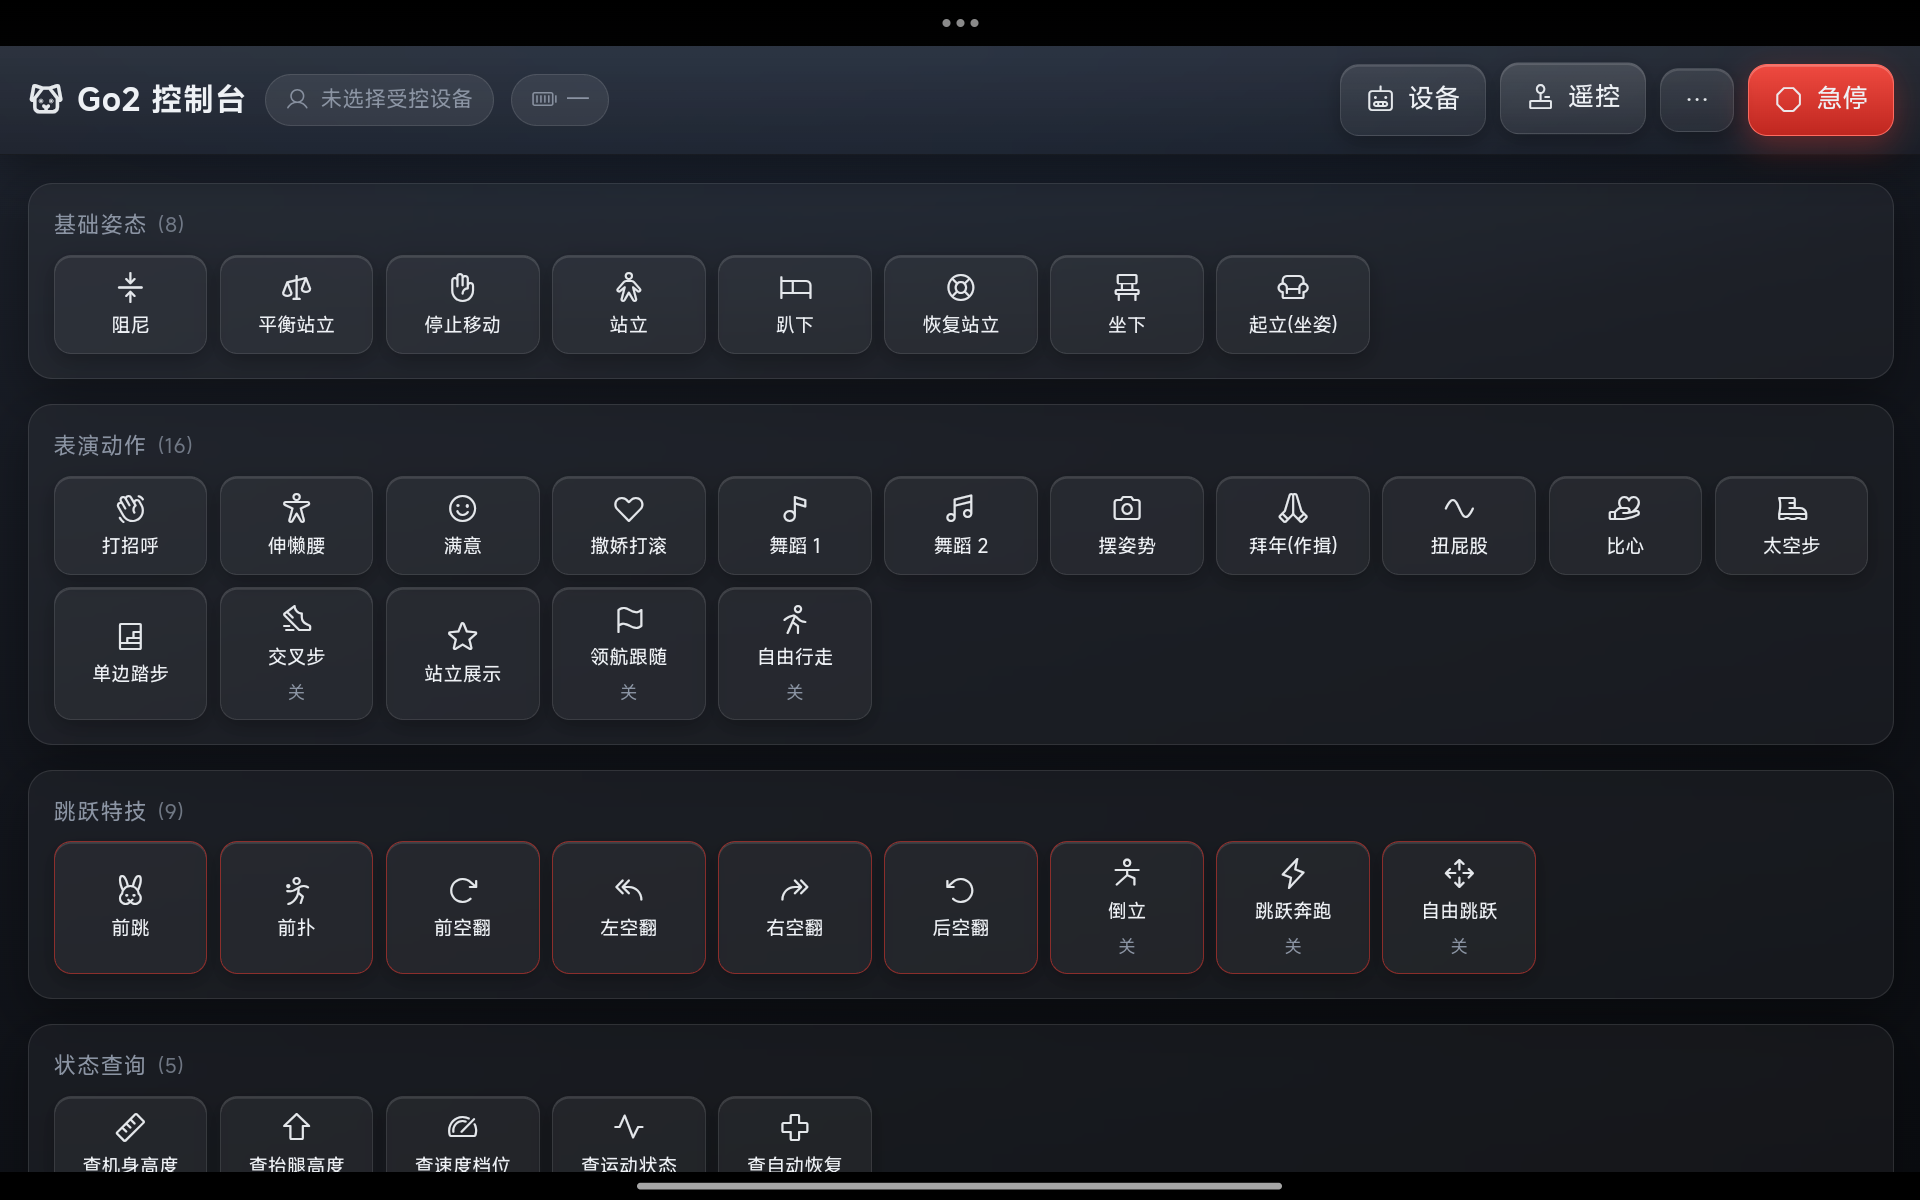
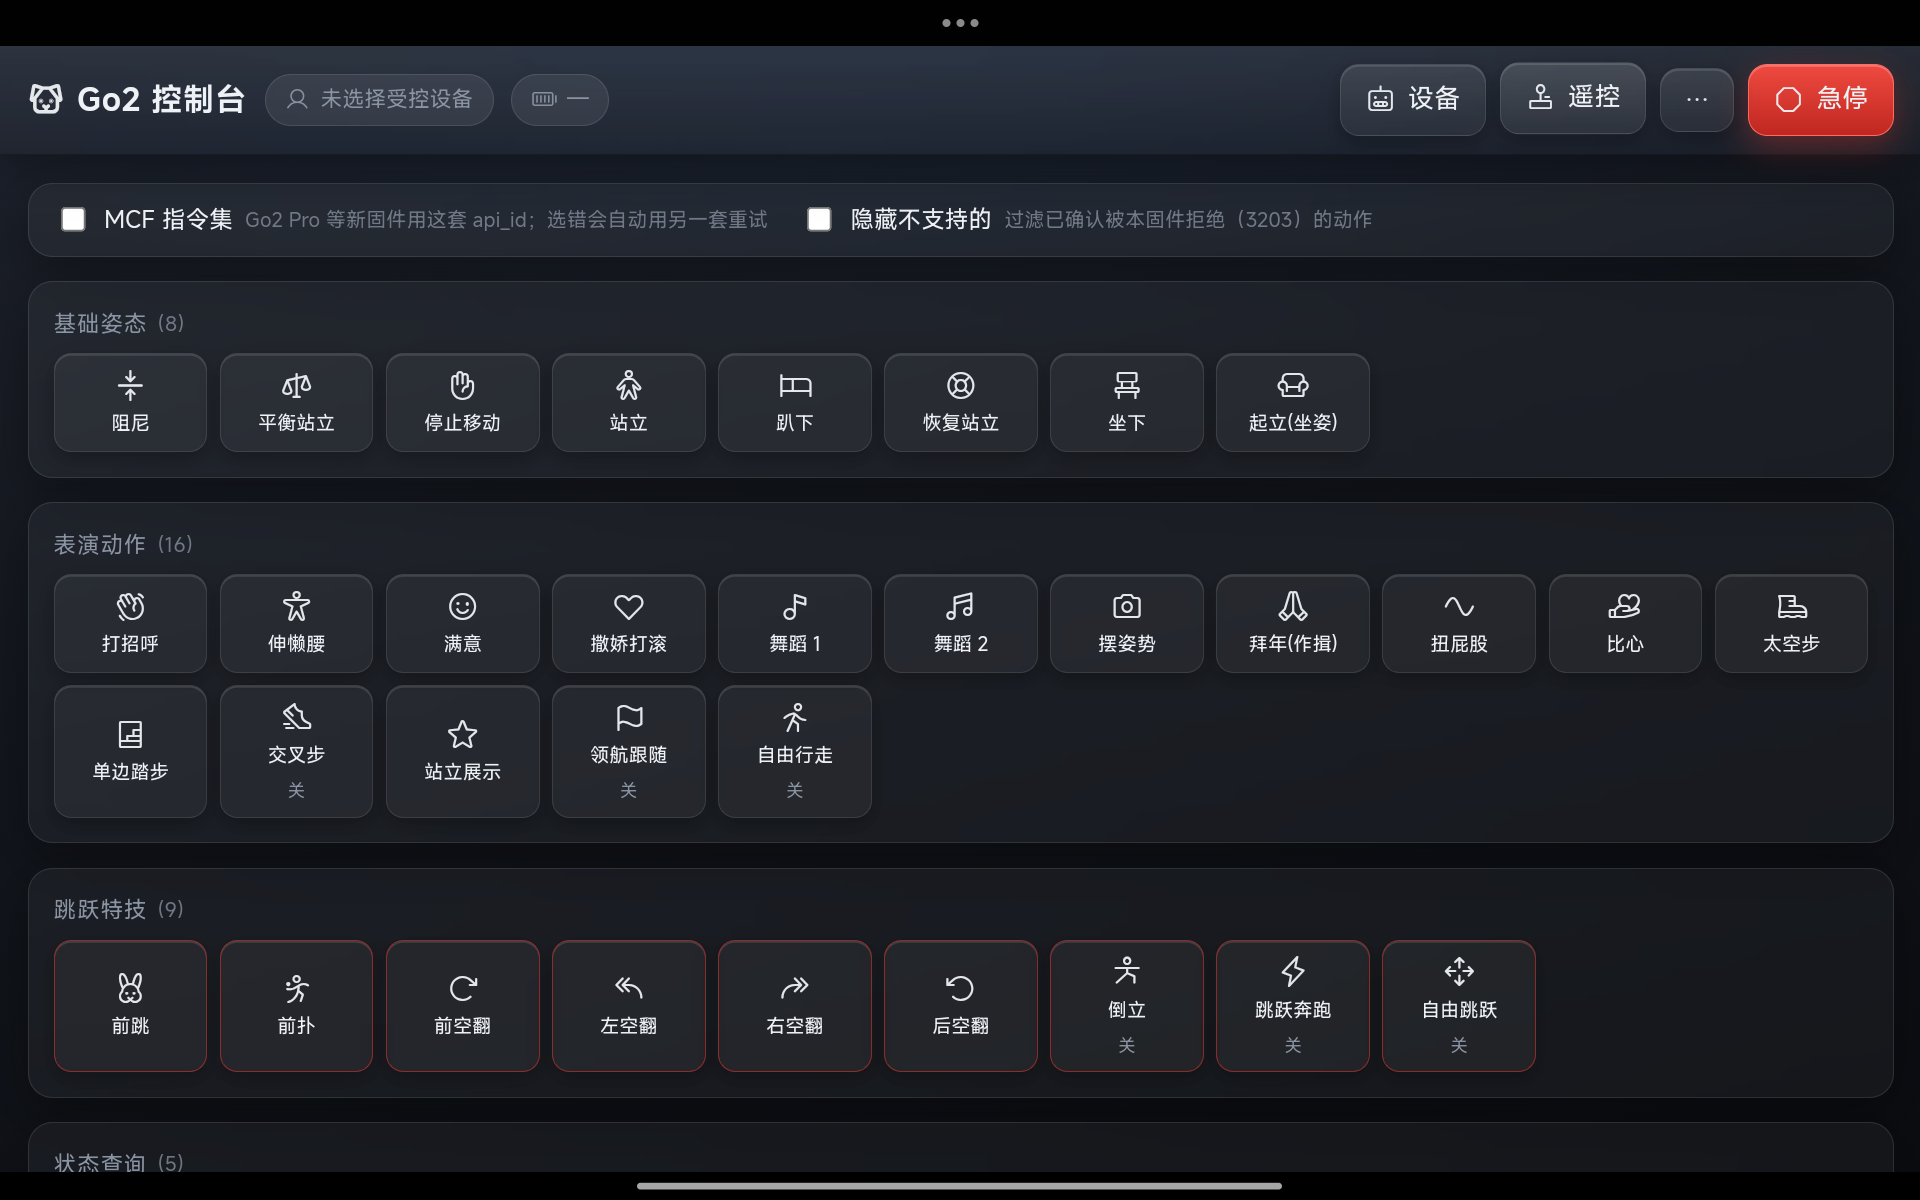
全部图标统一为 Phosphor 字体字形，清除文本/手绘残留
一、icons 生成器新增 CaretDown/CaretRight/X 并重新生成 icons.hpp（107 个）

二、ImGui：快捷 D-pad 的 ▲◀▼▶ 文本箭头全部换成图标字形（ArrowUp/CaretLeft/CaretDown/CaretRight）

三、网页：D-pad 文本箭头换图标；三个弹窗的 ✕ 关闭按钮换 X 图标；摇杆 CSS 十字线换成 crosshair 图标

四、验证：ninja 编译过、node --check 过、APK 重编装机（新字形字节确认已编入 libmain.so）、三张 README 截图重拍

🤖 Generated with [CodeBuddy](https://codebuddy.ai)

diff --git a/client/apps/android/app/src/main/assets/web/components/remote.js b/client/apps/android/app/src/main/assets/web/components/remote.js
@@ -73,9 +73,15 @@ export default {
             <span class="ic">{{ ICON.arrowUp }}</span>前进
           </button>
           <div class="dp-row">
-            <button class="dp" :disabled="!canMove || store.st.estop" @click="quick('left')">◀ 左转</button>
-            <button class="dp" :disabled="!canMove || store.st.estop" @click="quick('back')">▼ 后退</button>
-            <button class="dp" :disabled="!canMove || store.st.estop" @click="quick('right')">右转 ▶</button>
+            <button class="dp" :disabled="!canMove || store.st.estop" @click="quick('left')">
+              <span class="ic">{{ ICON.caretLeft }}</span>左转
+            </button>
+            <button class="dp" :disabled="!canMove || store.st.estop" @click="quick('back')">
+              <span class="ic">{{ ICON.caretDown }}</span>后退
+            </button>
+            <button class="dp" :disabled="!canMove || store.st.estop" @click="quick('right')">
+              右转<span class="ic">{{ ICON.caretRight }}</span>
+            </button>
           </div>
         </div>
         <div class="readout">

diff --git a/client/assets/web/components/remote.js b/client/assets/web/components/remote.js
@@ -73,9 +73,15 @@ export default {
             <span class="ic">{{ ICON.arrowUp }}</span>前进
           </button>
           <div class="dp-row">
-            <button class="dp" :disabled="!canMove || store.st.estop" @click="quick('left')">◀ 左转</button>
-            <button class="dp" :disabled="!canMove || store.st.estop" @click="quick('back')">▼ 后退</button>
-            <button class="dp" :disabled="!canMove || store.st.estop" @click="quick('right')">右转 ▶</button>
+            <button class="dp" :disabled="!canMove || store.st.estop" @click="quick('left')">
+              <span class="ic">{{ ICON.caretLeft }}</span>左转
+            </button>
+            <button class="dp" :disabled="!canMove || store.st.estop" @click="quick('back')">
+              <span class="ic">{{ ICON.caretDown }}</span>后退
+            </button>
+            <button class="dp" :disabled="!canMove || store.st.estop" @click="quick('right')">
+              右转<span class="ic">{{ ICON.caretRight }}</span>
+            </button>
           </div>
         </div>
         <div class="readout">

diff --git a/client/apps/android/app/src/main/assets/web/components/joystick.js b/client/apps/android/app/src/main/assets/web/components/joystick.js
@@ -1,6 +1,7 @@
 // 悬浮摇杆：只用 pointer 事件（鼠标 / 触屏 / 触控笔通吃），两杆各持有自己的指针 → **可以同时拖**
 // （这也是当初把界面往 WebView 搬的原因之一：ImGui 只有一个指针，双杆要靠平台层自己接管手指）
 import { ref, computed } from 'vue'
+import { ICON } from '../icons.js'
 
 export default {
   name: 'Joystick',
@@ -47,14 +48,14 @@ export default {
       emit('release')
     }
 
-    return { el, x, y, active, down, move, up, knobR, maxOff }
+    return { el, x, y, active, down, move, up, knobR, maxOff, ICON }
   },
   template: `
   <div class="joy" :class="{active:active}" ref="el"
        :style="{width: radius*2 + 'px', height: radius*2 + 'px'}"
        @pointerdown="down" @pointermove="move" @pointerup="up" @pointercancel="up">
     <div class="joy-ring"></div>
-    <div class="joy-cross"></div>
+    <span class="joy-aim ic">{{ ICON.crosshair }}</span>
     <div class="joy-knob" :style="{
       width: knobR*2 + 'px', height: knobR*2 + 'px',
       left: '50%', top: '50%',

diff --git a/client/assets/web/components/joystick.js b/client/assets/web/components/joystick.js
@@ -1,6 +1,7 @@
 // 悬浮摇杆：只用 pointer 事件（鼠标 / 触屏 / 触控笔通吃），两杆各持有自己的指针 → **可以同时拖**
 // （这也是当初把界面往 WebView 搬的原因之一：ImGui 只有一个指针，双杆要靠平台层自己接管手指）
 import { ref, computed } from 'vue'
+import { ICON } from '../icons.js'
 
 export default {
   name: 'Joystick',
@@ -47,14 +48,14 @@ export default {
       emit('release')
     }
 
-    return { el, x, y, active, down, move, up, knobR, maxOff }
+    return { el, x, y, active, down, move, up, knobR, maxOff, ICON }
   },
   template: `
   <div class="joy" :class="{active:active}" ref="el"
        :style="{width: radius*2 + 'px', height: radius*2 + 'px'}"
        @pointerdown="down" @pointermove="move" @pointerup="up" @pointercancel="up">
     <div class="joy-ring"></div>
-    <div class="joy-cross"></div>
+    <span class="joy-aim ic">{{ ICON.crosshair }}</span>
     <div class="joy-knob" :style="{
       width: knobR*2 + 'px', height: knobR*2 + 'px',
       left: '50%', top: '50%',

diff --git a/client/apps/android/app/src/main/assets/web/style.css b/client/apps/android/app/src/main/assets/web/style.css
@@ -250,8 +250,10 @@ button.icon-btn { padding: 9px 12px; position: relative; }
 }
 .joy.active { border-color: rgba(77, 147, 255, .55); }
 .joy-ring { position: absolute; inset: 14%; border-radius: 50%; border: 1px dashed rgba(255, 255, 255, .10); }
-.joy-cross { position: absolute; width: 60%; height: 1px; background: rgba(255, 255, 255, .07); }
-.joy-cross::after { content: ''; position: absolute; left: 50%; top: -30px; width: 1px; height: 61px; background: rgba(255, 255, 255, .07); }
+.joy-aim {
+  position: absolute; inset: 0; display: flex; align-items: center; justify-content: center;
+  font-size: 34px; color: rgba(255, 255, 255, .10); pointer-events: none;
+}
 .joy-knob {
   position: absolute; border-radius: 50%;
   background: radial-gradient(circle at 38% 30%, #ffffff, #dfe5ed 62%, #b9c2ce);

diff --git a/client/assets/web/style.css b/client/assets/web/style.css
@@ -250,8 +250,10 @@ button.icon-btn { padding: 9px 12px; position: relative; }
 }
 .joy.active { border-color: rgba(77, 147, 255, .55); }
 .joy-ring { position: absolute; inset: 14%; border-radius: 50%; border: 1px dashed rgba(255, 255, 255, .10); }
-.joy-cross { position: absolute; width: 60%; height: 1px; background: rgba(255, 255, 255, .07); }
-.joy-cross::after { content: ''; position: absolute; left: 50%; top: -30px; width: 1px; height: 61px; background: rgba(255, 255, 255, .07); }
+.joy-aim {
+  position: absolute; inset: 0; display: flex; align-items: center; justify-content: center;
+  font-size: 34px; color: rgba(255, 255, 255, .10); pointer-events: none;
+}
 .joy-knob {
   position: absolute; border-radius: 50%;
   background: radial-gradient(circle at 38% 30%, #ffffff, #dfe5ed 62%, #b9c2ce);

diff --git a/client/apps/android/app/src/main/assets/web/icons.js b/client/apps/android/app/src/main/assets/web/icons.js
@@ -8,6 +8,8 @@ export const ICON = {
   user: '\uE4C2', users: '\uE68E',
   gear: '\uE272', log: '\uE2F4', list: '\uE2F0', dots: '\uE1FE',
   estop: '\uE38E', stop: '\uE46C', lock: '\uE308',
+  caretLeft: '\uE138', caretDown: '\uE136', caretRight: '\uE13A', x: '\uE4F6',
+  crosshair: '\uE1D6',
   joystick: '\uEA5E', gamepad: '\uE26E',
   battery: '\uE0C0', charging: '\uE0BA',
   refresh: '\uE094', search: '\uE30C', key: '\uE2D6', eye: '\uE220', eyeOff: '\uE224',

diff --git a/client/assets/web/icons.js b/client/assets/web/icons.js
@@ -8,6 +8,8 @@ export const ICON = {
   user: '\uE4C2', users: '\uE68E',
   gear: '\uE272', log: '\uE2F4', list: '\uE2F0', dots: '\uE1FE',
   estop: '\uE38E', stop: '\uE46C', lock: '\uE308',
+  caretLeft: '\uE138', caretDown: '\uE136', caretRight: '\uE13A', x: '\uE4F6',
+  crosshair: '\uE1D6',
   joystick: '\uEA5E', gamepad: '\uE26E',
   battery: '\uE0C0', charging: '\uE0BA',
   refresh: '\uE094', search: '\uE30C', key: '\uE2D6', eye: '\uE220', eyeOff: '\uE224',

diff --git a/client/apps/android/app/src/main/assets/web/components/settings.js b/client/apps/android/app/src/main/assets/web/components/settings.js
@@ -35,7 +35,7 @@ export default {
     <div class="modal narrow">
       <div class="modal-head">
         <span class="ic">{{ ICON.gear }}</span>设置
-        <button class="ghost close" @click="close()">✕</button>
+        <button class="ghost close" @click="close()"><span class="ic">{{ ICON.x }}</span></button>
       </div>
       <div class="modal-body">
         <label class="opt" @click="toggle('mcf')">

diff --git a/client/assets/web/components/settings.js b/client/assets/web/components/settings.js
@@ -35,7 +35,7 @@ export default {
     <div class="modal narrow">
       <div class="modal-head">
         <span class="ic">{{ ICON.gear }}</span>设置
-        <button class="ghost close" @click="close()">✕</button>
+        <button class="ghost close" @click="close()"><span class="ic">{{ ICON.x }}</span></button>
       </div>
       <div class="modal-body">
         <label class="opt" @click="toggle('mcf')">

diff --git a/client/apps/android/app/src/main/assets/web/components/log.js b/client/apps/android/app/src/main/assets/web/components/log.js
@@ -33,7 +33,7 @@ export default {
     <div class="modal">
       <div class="modal-head">
         <span class="ic">{{ ICON.log }}</span>运行日志
-        <button class="ghost close" @click="close()">✕</button>
+        <button class="ghost close" @click="close()"><span class="ic">{{ ICON.x }}</span></button>
       </div>
       <div class="modal-body">
         <div class="log-tools">

diff --git a/client/assets/web/components/log.js b/client/assets/web/components/log.js
@@ -33,7 +33,7 @@ export default {
     <div class="modal">
       <div class="modal-head">
         <span class="ic">{{ ICON.log }}</span>运行日志
-        <button class="ghost close" @click="close()">✕</button>
+        <button class="ghost close" @click="close()"><span class="ic">{{ ICON.x }}</span></button>
       </div>
       <div class="modal-body">
         <div class="log-tools">
